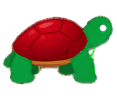
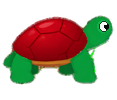
AI proposal 15

Changed region(s): [[0.8462, 0.21, 0.9487, 0.33]]

diff --git a/betman/index.html b/betman/index.html
@@ -421,11 +421,11 @@
             }
 
             //for dialog
-            ui_d_port = this.add.image(540, 960, 'boss').setVisible(false);
-            ui_d_frame = this.add.image(540, 960, 'd_frame').setVisible(false);
+            ui_d_port = this.add.image(540, 960, 'boss').setDepth(90).setVisible(false);
+            ui_d_frame = this.add.image(540, 960, 'd_frame').setDepth(100).setVisible(false);
             ui_d_nametext = this.add.text(20, 1380, '이름', {
                 fontSize: '70px', color: '#FF0000', align:'center', fixedWidth:270
-            }).setVisible(false);
+            }).setDepth(101).setVisible(false);
             ui_d_text = this.add.text(40, 1490, '대사내용', {
                 fontSize: '58px',
                 color: '#000000',
@@ -433,13 +433,13 @@
                 fixedWidth:1000,
                 wordWrap:{ width:1000, useAdvancedWrap:true },
                 lineSpacing:12
-            }).setVisible(false);
+            }).setDepth(101).setVisible(false);
 
-            ui_p_frame = this.add.image(540, 960,'p_frame').setVisible(false);
+            ui_p_frame = this.add.image(540, 960,'p_frame').setDepth(100).setVisible(false);
             ui_p_text = this.add.text(40, 840, '팝업', {
                 fontSize: '46px', color: '#000000', align:'center',
                 fixedWidth:1000, wordWrap:{width:1000, useAdvancedWrap:true}, lineSpacing:10
-            }).setVisible(false);
+            }).setDepth(101).setVisible(false);
             // p_zone = this.add.zone(240,480,760,400).setOrigin(0).setInteractive();
             // p_zone.off('pointerdown');
 
